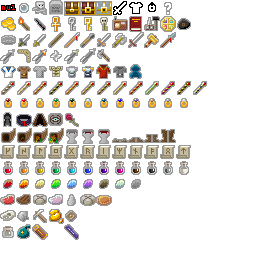
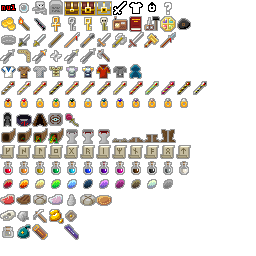
v0.2.2: added descriptions and placeholder sprites for new plants

Changed region(s): [[0.3125, 0.6875, 0.6875, 0.75]]

diff --git a/src/com/shatteredpixel/shatteredpixeldungeon/sprites/ItemSpriteSheet.java b/src/com/shatteredpixel/shatteredpixeldungeon/sprites/ItemSpriteSheet.java
@@ -183,15 +183,16 @@ public class ItemSpriteSheet {
     public static final int SEED_ROTBERRY	= ROW12+0;
     public static final int SEED_FIREBLOOM	= ROW12+1;
     public static final int SEED_BLINDWEED	= ROW12+2;
-    public static final int SEED_DREAMWEED	= ROW12+2;
     public static final int SEED_SUNGRASS	= ROW12+3;
     public static final int SEED_ICECAP		= ROW12+4;
-    public static final int SEED_SORROWMOSS	= ROW12+5;
-    public static final int SEED_EARTHROOT	= ROW12+6;
-    public static final int SEED_FADELEAF	= ROW12+7;
-    public static final int SEED_BLANDFRUIT	= ROW12+8;
+    public static final int SEED_STORMVINE	= ROW12+5;
+    public static final int SEED_SORROWMOSS	= ROW12+6;
+    public static final int SEED_DREAMFOIL	= ROW12+7;
+    public static final int SEED_EARTHROOT	= ROW12+8;
+    public static final int SEED_FADELEAF	= ROW12+9;
+    public static final int SEED_BLANDFRUIT	= ROW12+10;
 
-    //Row Theirteen: Food
+    //Row Thirteen: Food
     public static final int MEAT		= ROW13+0;
     public static final int STEAK		= ROW13+1;
     public static final int OVERPRICED	= ROW13+2;

diff --git a/src/com/shatteredpixel/shatteredpixeldungeon/plants/Dreamfoil.java b/src/com/shatteredpixel/shatteredpixeldungeon/plants/Dreamfoil.java
@@ -27,10 +27,11 @@ import com.shatteredpixel.shatteredpixeldungeon.sprites.ItemSpriteSheet;
 public class Dreamfoil extends Plant {
 
     private static final String TXT_DESC =
-            "DESC HERE";
+            "The Dreamfoil's prickly flowers contain a toxin " +
+            "which renders most weaker beings unconscious.";
 
     {
-        image = 3;
+        image = 10;
         plantName = "Dreamfoil";
     }
 
@@ -41,7 +42,6 @@ public class Dreamfoil extends Plant {
         if (ch != null) {
             if (ch instanceof Mob)
                 Buff.affect(ch, MagicalSleep.class);
-            //GameScene.add(Blob.seed(pos, 300 + 20 * Dungeon.depth, ConfusionGas.class));
         }
     }
 
@@ -55,7 +55,7 @@ public class Dreamfoil extends Plant {
             plantName = "Dreamfoil";
 
             name = "seed of " + plantName;
-            image = ItemSpriteSheet.SEED_SORROWMOSS;
+            image = ItemSpriteSheet.SEED_DREAMFOIL;
 
             plantClass = Dreamfoil.class;
             alchemyClass = PotionOfPurity.class;

diff --git a/src/com/shatteredpixel/shatteredpixeldungeon/plants/Stormvine.java b/src/com/shatteredpixel/shatteredpixeldungeon/plants/Stormvine.java
@@ -13,11 +13,13 @@ import com.shatteredpixel.shatteredpixeldungeon.sprites.ItemSpriteSheet;
  * Created by Evan on 23/10/2014.
  */
 public class Stormvine extends Plant {
+
     private static final String TXT_DESC =
-            "DESC HERE";
+            "Stormvine is an unusual sort fo vine which 'hangs' on the air. " +
+            "Gravity affects it strangely, and anything caught in the vine is confused as a result.";
 
     {
-        image = 3;
+        image = 9;
         plantName = "Stormvine";
     }
 
@@ -37,10 +39,10 @@ public class Stormvine extends Plant {
 
     public static class Seed extends Plant.Seed {
         {
-            plantName = "Dreamfoil";
+            plantName = "Stormvine";
 
             name = "seed of " + plantName;
-            image = ItemSpriteSheet.SEED_ICECAP;
+            image = ItemSpriteSheet.SEED_STORMVINE;
 
             plantClass = Stormvine.class;
             alchemyClass = PotionOfLevitation.class;
